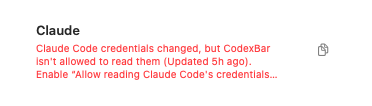
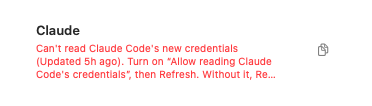
Shorten Claude consent guidance to fit the card
The menu card shows three lines of an error. Lead with the setting and Refresh
so the whole action stays visible; the CLI sentence remains in the copy text.

Changed region(s): [[0.0887, 0.5377, 0.7688, 0.7642], [0.1183, 0.3962, 0.7392, 0.5094]]

diff --git a/Sources/CodexBarCore/Providers/Claude/ClaudeOAuth/ClaudeOAuthCredentialModels.swift b/Sources/CodexBarCore/Providers/Claude/ClaudeOAuth/ClaudeOAuthCredentialModels.swift
@@ -275,9 +275,8 @@ public enum ClaudeOAuthCredentialsError: LocalizedError, Sendable {
                 + "Click Refresh to re-grant CodexBar access."
         case let .directKeychainReadNotAllowed(date):
             return Self.directKeychainReadNotAllowedPrefix + " (\(UsageFormatter.updatedString(from: date))). "
-                + "Enable \u{201C}Allow reading Claude Code's credentials\u{201D} in Claude settings, "
-                + "then click Refresh to read them. Without it, Refresh in the CodexBar menu updates once "
-                + "through the Claude CLI, if it is installed."
+                + "Turn on \u{201C}Allow reading Claude Code's credentials\u{201D}, then Refresh. "
+                + "Without it, Refresh updates once through the Claude CLI, if it is installed."
         case .keychainAccessRevoked:
             return "Claude OAuth credentials are currently unavailable to CodexBar. "
                 + "Click Refresh to retry access, or switch Claude Usage source to CLI/Web."
@@ -307,7 +306,7 @@ public enum ClaudeOAuthCredentialsError: LocalizedError, Sendable {
 
     /// Recognizes `.directKeychainReadNotAllowed` after the error crossed an untyped boundary (e.g. the menu card).
     public static let directKeychainReadNotAllowedPrefix =
-        "Claude Code credentials changed, but CodexBar isn't allowed to read them"
+        "Can't read Claude Code's new credentials"
 
     public static func isDirectKeychainReadNotAllowed(description: String?) -> Bool {
         description?.hasPrefix(self.directKeychainReadNotAllowedPrefix) ?? false

diff --git a/Tests/CodexBarTests/ClaudeExternalLoginFreshnessTests.swift b/Tests/CodexBarTests/ClaudeExternalLoginFreshnessTests.swift
@@ -24,10 +24,10 @@ struct ClaudeExternalLoginFreshnessTests {
                     }
                     let message = error.localizedDescription
                     #expect(changedAt == Self.loginDate)
-                    #expect(message.contains("Claude Code credentials changed"))
+                    #expect(message.hasPrefix("Can't read Claude Code's new credentials"))
                     #expect(message.contains("Allow reading Claude Code's credentials"))
                     #expect(!message.contains("re-grant"))
-                    #expect(message.contains("then click Refresh to read them"))
+                    #expect(message.contains("then Refresh."))
                     #expect(message.contains("updates once through the Claude CLI, if it is installed"))
                     #expect(!message.localizedCaseInsensitiveContains("background"))
                     #expect(!message.contains("Run `claude`"))

diff --git a/docs/claude.md b/docs/claude.md
@@ -176,11 +176,11 @@ state can follow a read suppressed by the selected policy. Refresh retries withi
   credentials file, or a newer Keychain item with direct-read consent on, shows **Claude Code credentials changed**
   and a **Refresh** instruction in the menu and OAuth CLI output. Click the existing menu **Refresh** action to
   retry; the prompt policy still controls access. With consent off, Refresh cannot read the Keychain item, so a
-  newer Keychain timestamp says CodexBar isn't allowed to read the changed credentials. The menu then offers
-  **Allow reading Claude Code's credentials in Settings…**. After you enable it, a **Refresh** can read the changed
-  credentials, subject to the prompt policy. Without it, a menu **Refresh** updates once through the Claude CLI, if
-  it is installed. When a later CLI or Web attempt runs and fails, its error replaces this message; the menu's
-  recovery action follows its existing rules for that error.
+  newer Keychain timestamp says CodexBar can't read Claude Code's new credentials and names the setting. The menu
+  then offers **Allow reading Claude Code's credentials in Settings…**. After you enable it, a **Refresh** can read
+  the changed credentials, subject to the prompt policy. Without it, a menu **Refresh** updates once through the
+  Claude CLI, if it is installed. When a later CLI or Web attempt runs and fails, its error replaces this message;
+  the menu's recovery action follows its existing rules for that error.
   The freshness probe reads only Keychain attributes with UI disabled and the credentials file's modification
   time. It never requests the Keychain credential payload, launches Claude, or grants access in the background.
   A changed timestamp can mean a login or token rotation; it does not prove the credential is valid. Custom
